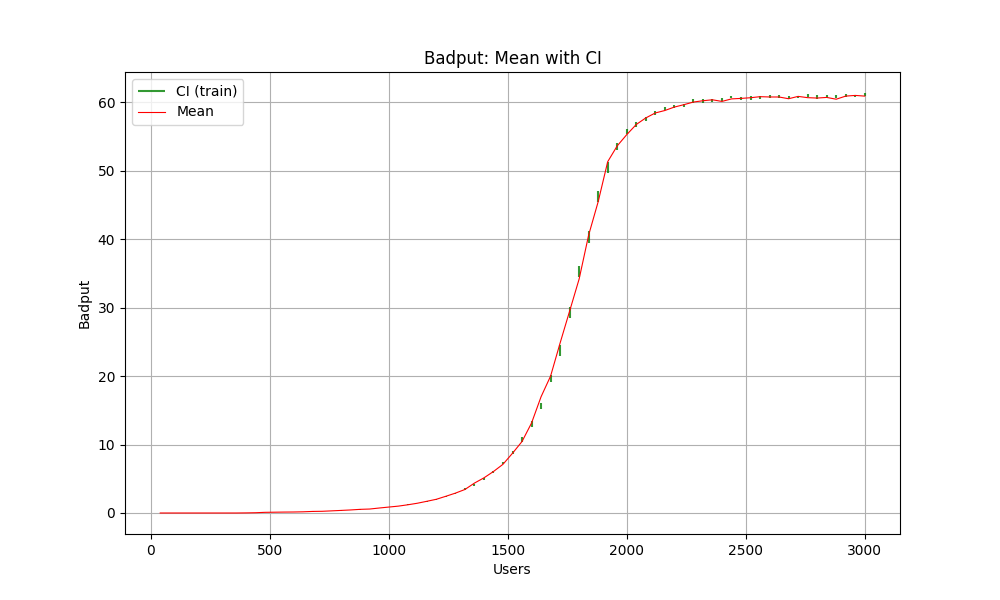
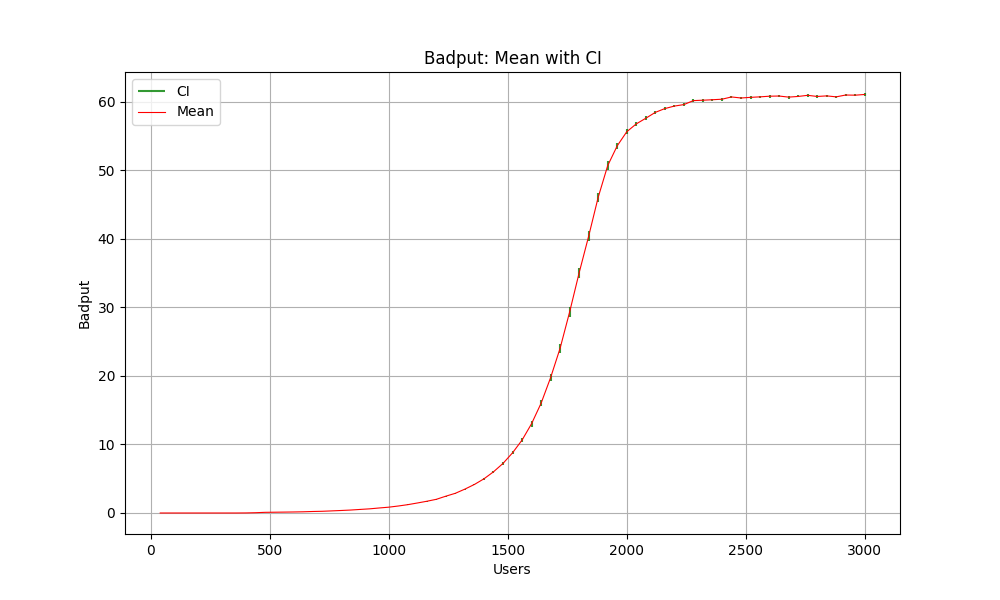
confidence interval fixed

diff --git a/A-2/confidence_plotter.py b/A-2/confidence_plotter.py
@@ -75,37 +75,26 @@ def collect_all_runs(runs_dir):
     return OrderedDict(sorted(agg.items()))
 
 
-def compute_ci_and_valmean(samples, N, conf):
+def compute_ci_and_mean(samples, conf):
     users_list = sorted(samples.keys())
-    k = int(0.75 * N)
-    train_runs = list(range(1, k + 1))
-    val_runs = list(range(k + 1, N + 1))
-
-    print("Train runs:", train_runs)
-    print("Val runs:", val_runs)
-
-    results = {m: {"mean": [], "lo": [], "hi": [], "val_mean": []} for m in METRICS}
+    results = {m: {"mean": [], "lo": [], "hi": []} for m in METRICS}
 
     for users in users_list:
         runs = samples[users]
 
         for m in METRICS:
-            train_vals = [runs[r][m] for r in train_runs if r in runs]
-            val_vals = [runs[r][m] for r in val_runs if r in runs]
+            vals = [runs[r][m] for r in sorted(runs.keys()) if r in runs]
 
-            if len(train_vals) < 2 or len(val_vals) == 0:
+            if len(vals) < 2:
                 results[m]["mean"].append(np.nan)
                 results[m]["lo"].append(np.nan)
                 results[m]["hi"].append(np.nan)
-                results[m]["val_mean"].append(np.nan)
                 continue
 
-            train_arr = np.array(train_vals)
-            val_arr = np.array(val_vals)
-
-            n = len(train_arr)
-            mean = train_arr.mean()
-            sd = train_arr.std(ddof=1)
+            arr = np.array(vals, dtype=float)
+            n = len(arr)
+            mean = arr.mean()
+            sd = arr.std(ddof=1)
             tcrit = t_critical(conf, n - 1)
             margin = tcrit * (sd / math.sqrt(n))
 
@@ -115,7 +104,6 @@ def compute_ci_and_valmean(samples, N, conf):
             results[m]["mean"].append(mean)
             results[m]["lo"].append(lo)
             results[m]["hi"].append(hi)
-            results[m]["val_mean"].append(val_arr.mean())
 
     return users_list, results
 
@@ -129,12 +117,13 @@ def plot_all(users, results, outdir):
         plt.figure(figsize=(10, 6))
         lo = np.array(results[m]["lo"])
         hi = np.array(results[m]["hi"])
-        val_mean = np.array(results[m]["val_mean"])
+        mean = np.array(results[m]["mean"])
         mask = ~np.isnan(lo)
 
         # CI as vertical lines
-        plt.vlines(xs[mask], lo[mask], hi[mask], color="green", alpha=0.8, label="CI (train)")
-        plt.plot(xs[mask], val_mean[mask], linestyle='-', label="Mean", color="red", linewidth=0.8)
+        plt.vlines(xs[mask], lo[mask], hi[mask], color="green", alpha=0.8, label="CI")
+        # Mean as line
+        plt.plot(xs[mask], mean[mask], linestyle='-', label="Mean", color="red", linewidth=0.8)
 
         plt.xlabel("Users")
         plt.ylabel(m)
@@ -151,7 +140,7 @@ def plot_all(users, results, outdir):
         'Goodput': 'green',
         'Badput': 'red'
     }
-    val_colors = {
+    mean_colors = {
         'Throughput': 'navy',
         'Goodput': 'darkgreen',
         'Badput': 'darkred'
@@ -160,11 +149,11 @@ def plot_all(users, results, outdir):
     for m in ['Throughput', 'Goodput', 'Badput']:
         lo = np.array(results[m]["lo"])
         hi = np.array(results[m]["hi"])
-        val_mean = np.array(results[m]["val_mean"])
+        mean = np.array(results[m]["mean"])
         mask = ~np.isnan(lo)
 
         plt.vlines(xs[mask], lo[mask], hi[mask], color=ci_colors[m], alpha=0.6, label=f"{m} CI")
-        plt.plot(xs[mask], val_mean[mask], linestyle='-', color=val_colors[m], label=f"{m} (mean)", linewidth=0.8)
+        plt.plot(xs[mask], mean[mask], linestyle='-', color=mean_colors[m], label=f"{m} Mean", linewidth=0.8)
 
     plt.xlabel("Users")
     plt.ylabel("Requests/sec")
@@ -180,12 +169,12 @@ def plot_all(users, results, outdir):
 def main():
     parser = argparse.ArgumentParser()
     parser.add_argument("runs_dir")
-    parser.add_argument("-n", "--runs", type=int, required=True)
+    parser.add_argument("-n", "--runs", type=int, required=False, help="Kept for compatibility; not used.")
     parser.add_argument("-c", "--conf", type=float, default=95.0)
     args = parser.parse_args()
 
     samples = collect_all_runs(args.runs_dir)
-    users, results = compute_ci_and_valmean(samples, args.runs, args.conf)
+    users, results = compute_ci_and_mean(samples, args.conf)
     plot_all(users, results, args.runs_dir)
 
 
